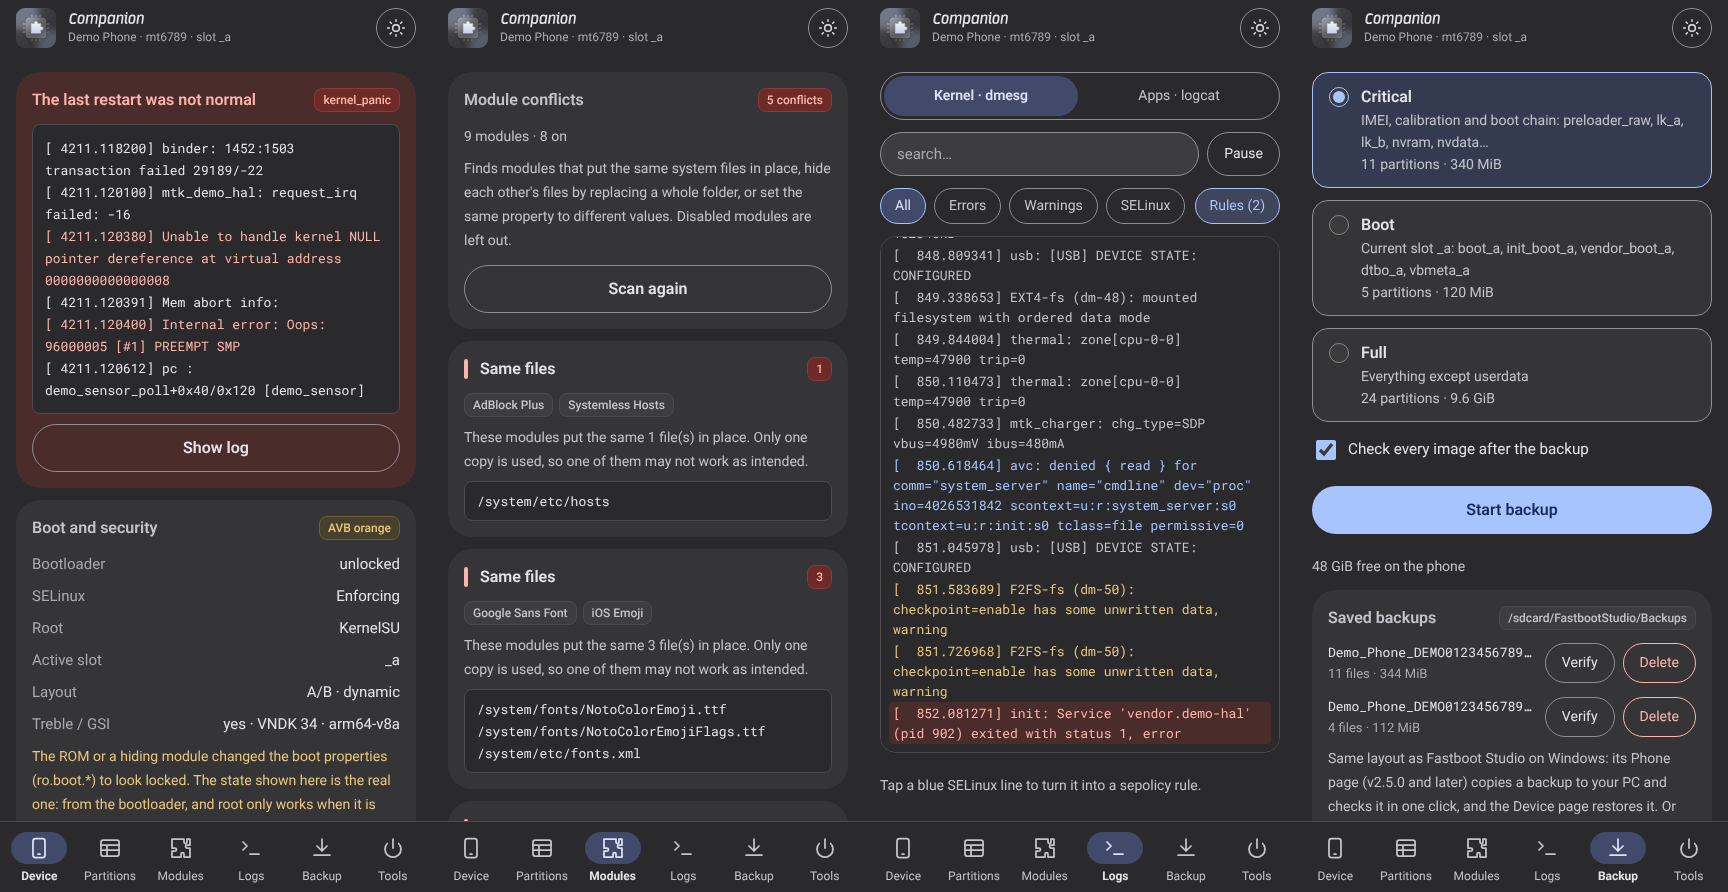
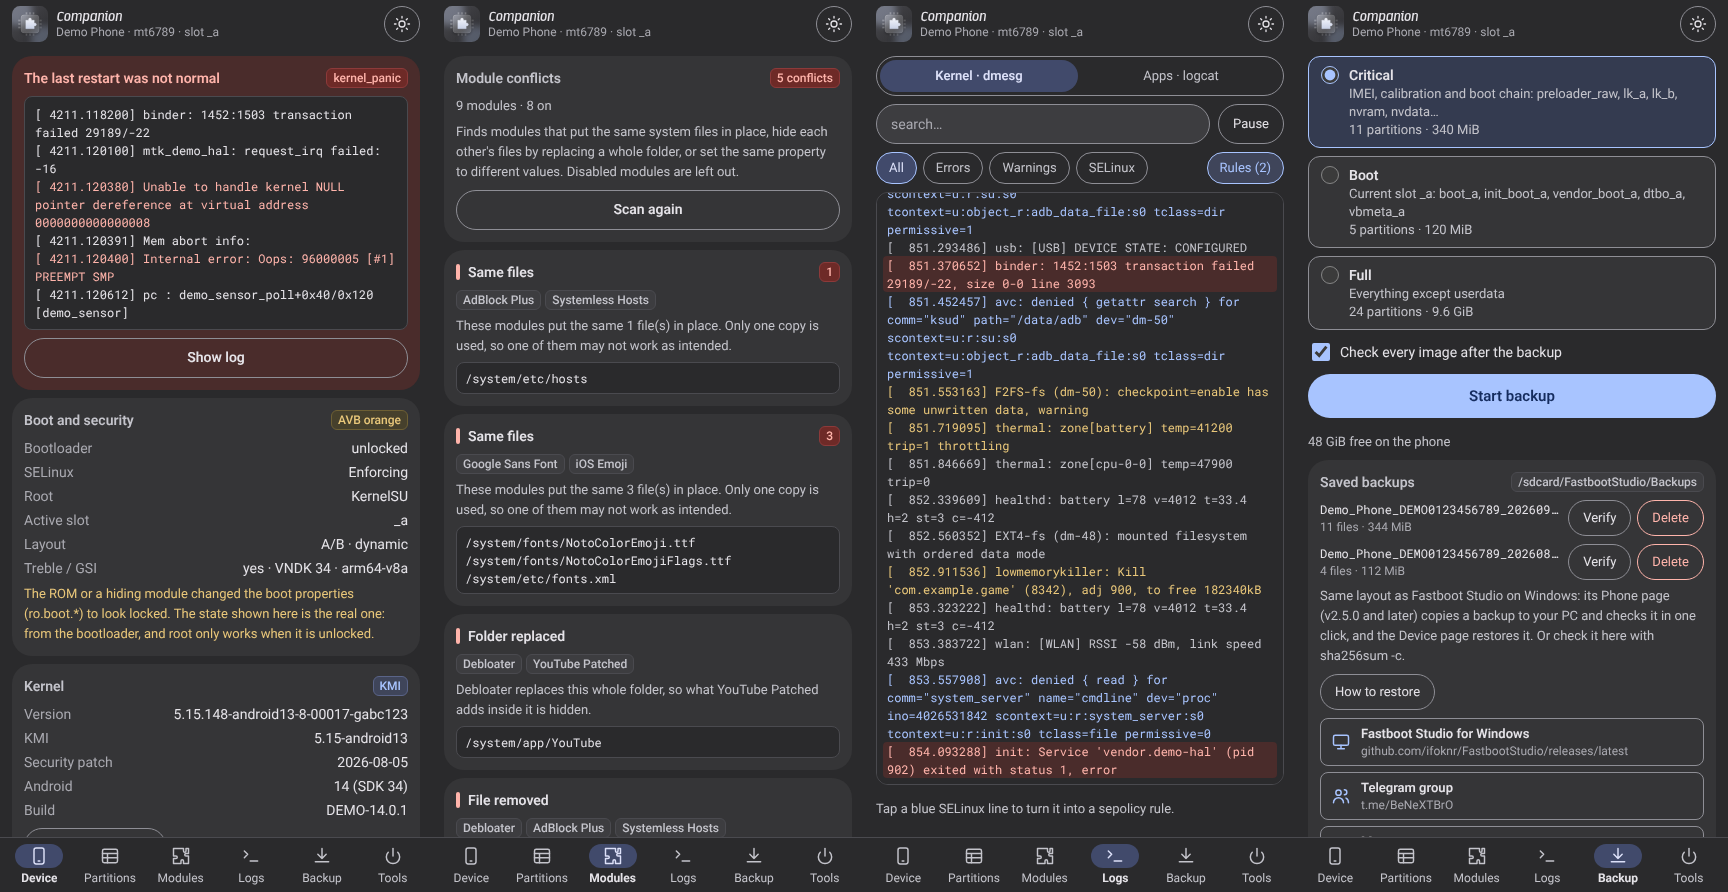
tools/docs.js makes the README pictures; pictures made again

diff --git a/tools/docs.js b/tools/docs.js
@@ -1,0 +1,44 @@
+#!/usr/bin/env node
+// Makes the pictures the READMEs show, from the WebUI with its demo bridge:
+//   docs/webui-en.png, docs/webui-ar.png   four tabs side by side, night theme (1728 x 892)
+//   docs/webui-tablet.png, -ar.png         the Device tab on a tablet, day theme (1280 x 800)
+// Run it after a change to the look:  node tools/docs.js
+// Needs Playwright with its Chromium (npm i playwright; npx playwright install chromium).
+'use strict';
+const path = require('path');
+const { chromium } = require('playwright');
+
+const root = path.resolve(__dirname, '..');
+const page = 'file://' + path.join(root, 'module/webroot/index.html');
+const out = name => path.join(root, 'docs', name);
+const TABS = ['device', 'mods', 'log', 'backup'];
+
+// The demo's toast ("Demo data...") is not part of the look.
+const settle = async p => {
+  await p.waitForTimeout(3000);
+  for (const f of p.frames()) await f.evaluate(() => { const t = document.querySelector('#toast'); if (t) t.hidden = true; }).catch(() => {});
+};
+
+(async () => {
+  const browser = await chromium.launch();
+  for (const lang of ['en', 'ar']) {
+    // Four phones in a row; in Arabic the first tab is on the right, as the page itself reads.
+    const strip = await browser.newContext({ viewport: { width: 1728, height: 892 }, colorScheme: 'dark' });
+    const p = await strip.newPage();
+    const tabs = lang === 'ar' ? [...TABS].reverse() : TABS;
+    await p.goto(page);
+    await p.setContent('<body style="margin:0;display:flex;background:#000">' + tabs.map(t =>
+      `<iframe src="${page}?lang=${lang}&theme=dark#${t}" style="border:0;width:432px;height:892px;flex:none"></iframe>`).join('') + '</body>');
+    await settle(p);
+    await p.screenshot({ path: out(`webui-${lang}.png`) });
+    await strip.close();
+
+    const tablet = await browser.newContext({ viewport: { width: 1280, height: 800 }, colorScheme: 'light' });
+    const t = await tablet.newPage();
+    await t.goto(`${page}?lang=${lang}&theme=light#device`);
+    await settle(t);
+    await t.screenshot({ path: out(lang === 'ar' ? 'webui-tablet-ar.png' : 'webui-tablet.png') });
+    await tablet.close();
+  }
+  await browser.close();
+})().catch(e => { console.error(e); process.exit(1); });

diff --git a/README.md b/README.md
@@ -132,6 +132,7 @@ The same links are in the WebUI, under the backups and in Tools.
 SHELLS="dash mksh busybox-sh" sh tests/run.sh   # fbs against a fake phone
 CHROME=google-chrome sh tests/webui-smoke.sh    # the WebUI with the demo bridge
 sh tools/build.sh                               # dist/FastbootStudio-Companion-vX.Y.Z.zip
+node tools/docs.js                              # the pictures in docs/ (needs Playwright)
 ```
 
 `module/webroot/index.html` also opens in a normal browser, where `demo.js` stands in for the
